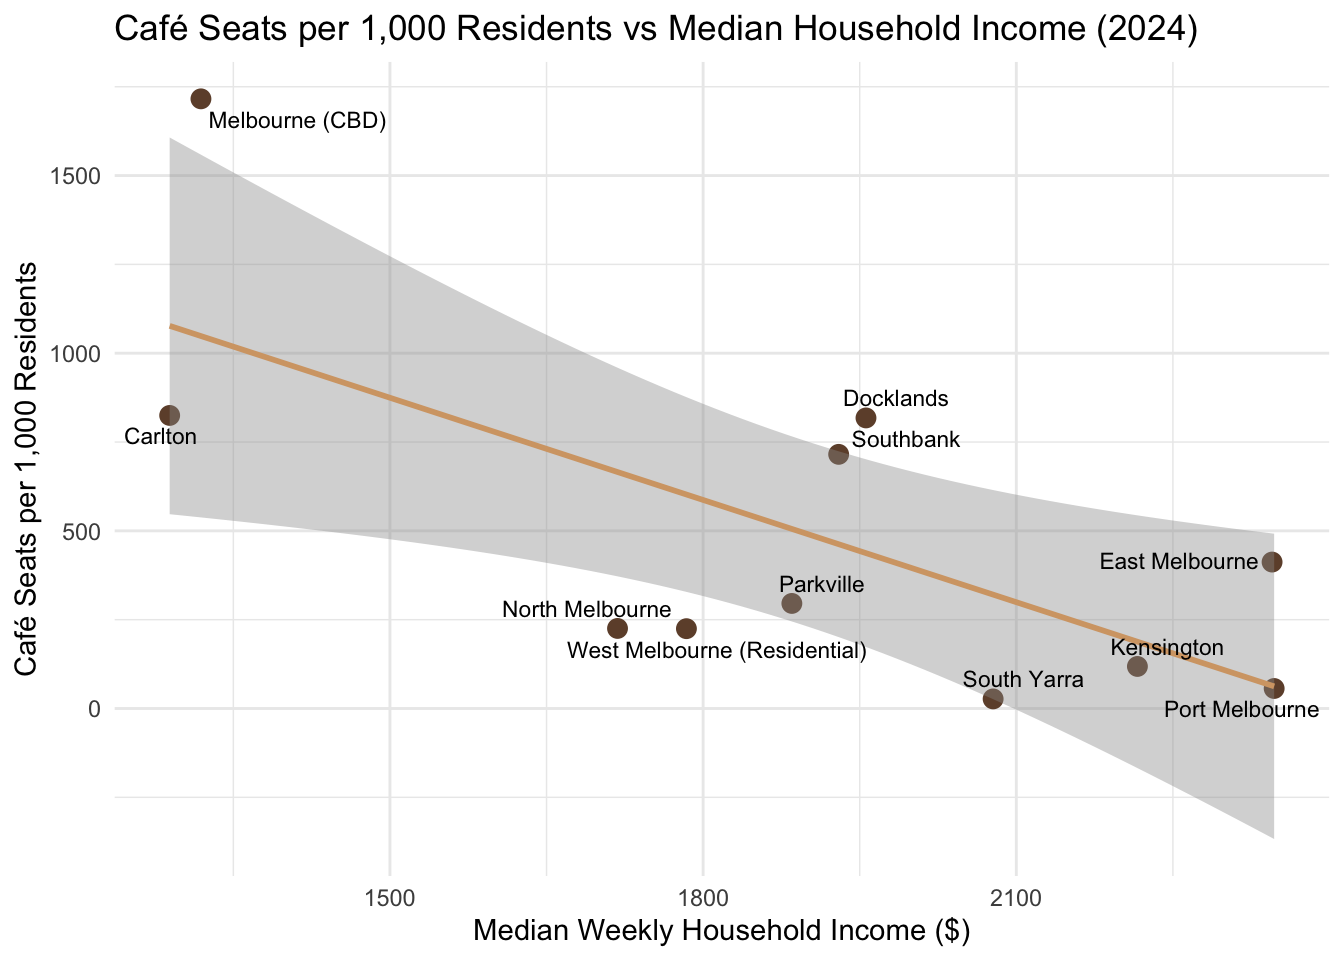
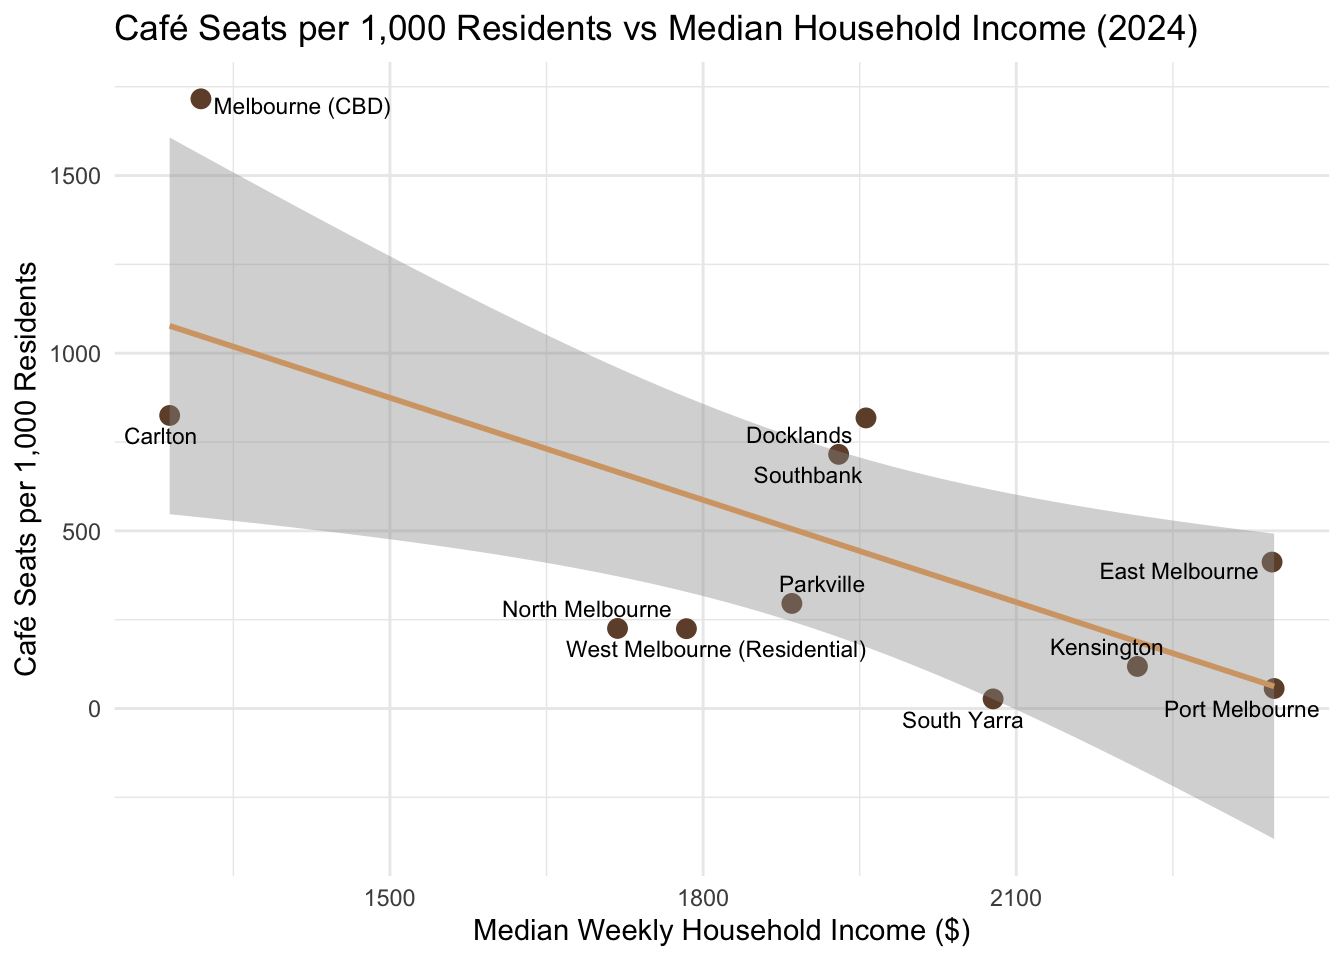
fix: typo

diff --git a/assignment4_35196726.html b/assignment4_35196726.html
@@ -965,7 +965,7 @@ Geodetic CRS:  WGS 84</code></pre>
 <section id="question-9" class="level3">
 <h3 class="anchored" data-anchor-id="question-9">Question 9</h3>
 <p><em>Submit 4 earlier versions of your .qmd files to show your iterative process. These versions must show iterations of your work (not just a linear progression of Task 1, Task 2, Task 3, citations). Reflect on the progress made between each versions by providing a short statement for markers of what you fixed/learnt/improved/changed between each file. Also like to reflect on what changed between your first checklist submission. (Note: There is an expectation for students familiar with GitHub that you will submit a Github repository and refer to 4 individual commits.)</em></p>
-<p>My GitHub repository is at <a href="https://github.com/suprithamaiya/melbourne-cafe-analysis.git" class="uri">https://github.com/suprithamaiya/melbourne-cafe-analysis.git</a></p>
+<p>My GitHub repository is at <a href="https://github.com/suprithamaiya/melbourne-cafe-analysis" class="uri">https://github.com/suprithamaiya/melbourne-cafe-analysis</a></p>
 <p>The commits document the iterative process:</p>
 <ul>
 <li>V1: Basic scaffolding — CLUE data loading, filtering, and initial charts. I was still exploring what to proceed with.</li>
